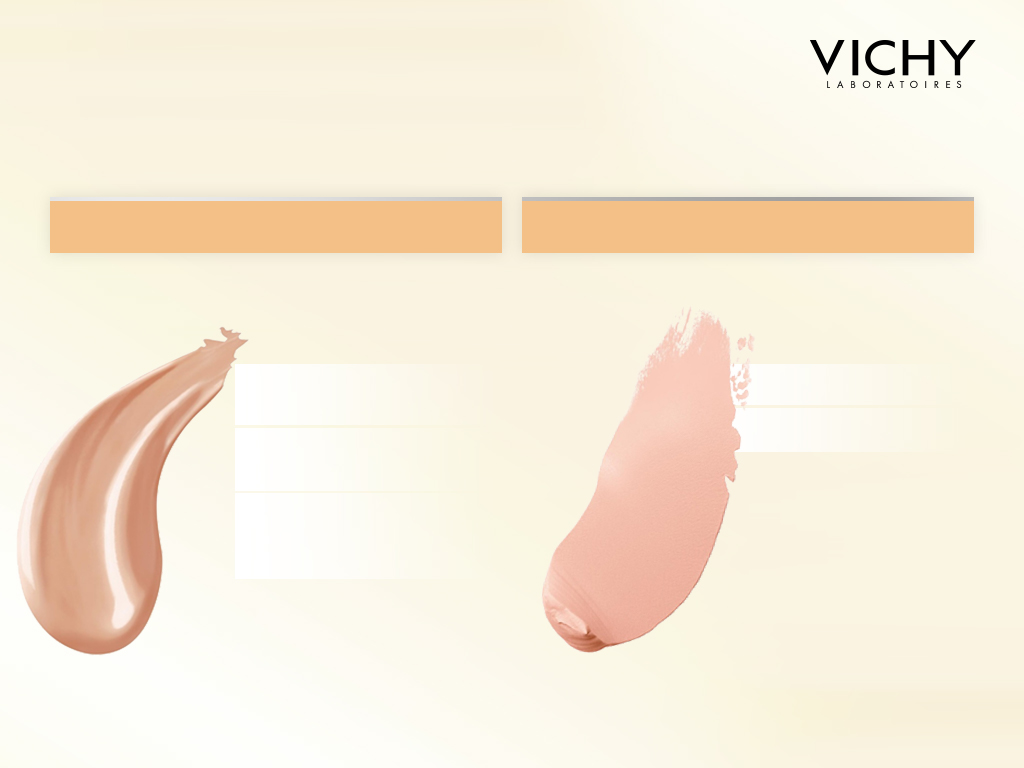
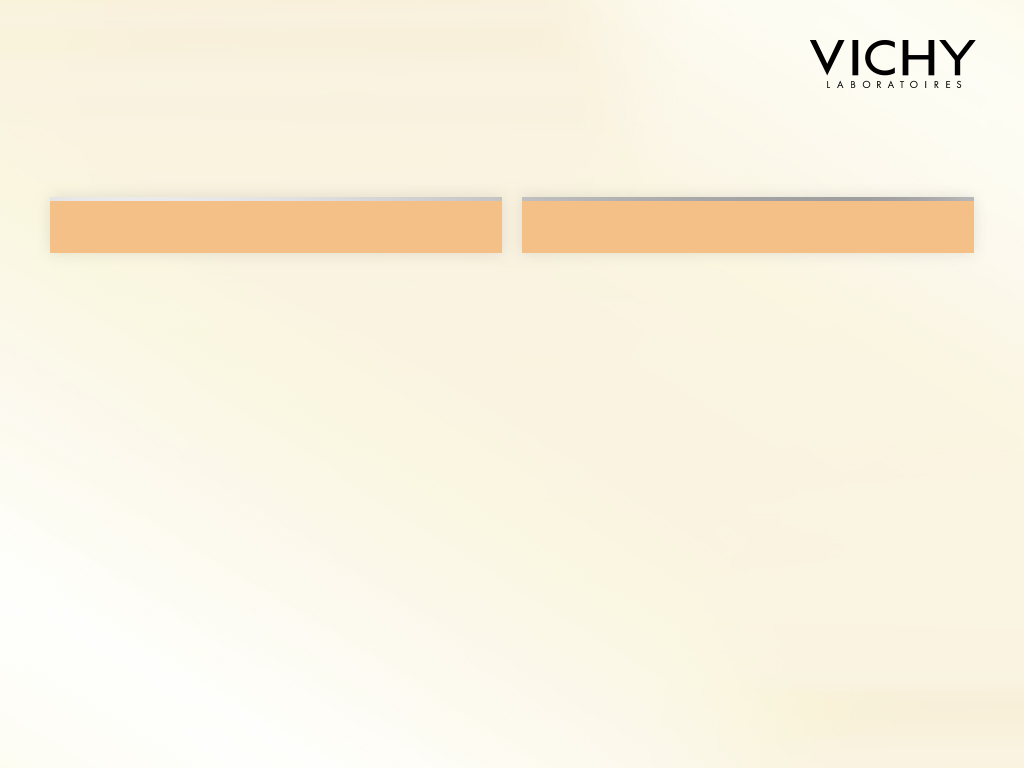
+

Changed region(s): [[0.5312, 0.4062, 0.75, 0.875], [0.0, 0.4062, 0.2812, 0.875]]

diff --git a/css/style.css b/css/style.css
@@ -373,9 +373,29 @@ body {
     left: 604px;
     width: 265px;
   }
+  .sld1 .s1 .good .spot {
+    position: absolute;
+    z-index: 1;
+  }
+  .sld1 .s1 .good-1 .spot {
+    top: 5px;
+    left: -98px;
+    width: 235px;
+    height: 330px;
+    background-image: url('../images/1/spot-f.png');
+  }
+  .sld1 .s1 .good-2 .spot {
+    top: -24px;
+    left: -64px;
+    width: 216px;
+    height: 357px;
+    background-image: url('../images/1/spot-3d.png');
+  }
   .sld1 .s1 .good .img {
     position: absolute;
     bottom: 0;
+    left: 0;
+    z-index: 2;
   }
   .sld1 .s1 .good-1 .img {
     width: 151px;
@@ -388,8 +408,25 @@ body {
     background-image: url('../images/1/bottle-3d.png');
   }
   .sld1 .s1 .good .list {
+    box-sizing: border-box;
     position: absolute;
-    top: 55px;
+    top: 45px;
+    left: 100px;
+    width: 266px;
+    padding-left: 100px;
+    padding-top: 11px;
+    transform: translateX(-100px);
+    opacity: 0;
+    z-index: 0;
+  }
+  .sld1 .s1 .good .list-l {
+    height: 215px;
+    background-image: url('../images/1/list-left-bg.png');
+    right: 0;
+  }
+  .sld1 .s1 .good .list-r {
+    height: 88px;
+    background-image: url('../images/1/list-right-bg.png');
     right: 0;
     transform: translateX(-100px);
     opacity: 0;
@@ -397,6 +434,9 @@ body {
   .sld1 .s1 .good .list li {
     position: relative;
     margin-bottom: 26px;
+  }
+  .sld1 .s1 .good .list li .adv {
+    white-space: nowrap;
   }
   .sld1 .s1 .good .list li .tick {
     position: absolute;
@@ -426,10 +466,10 @@ body {
     position: absolute;
     bottom: 44px;
   }
-  .sld1 .s1 .tones-1 {
+  .sld1 .s1 .tones-l {
     left: 242px;
   }
-  .sld1 .s1 .tones-2 {
+  .sld1 .s1 .tones-r {
     left: 715px;
   }
   .sld1 .s1 .tones li {
@@ -443,15 +483,27 @@ body {
     width: 30px;
     height: 30px;
   }
-  .sld1 .s1 .tones .item1 .tone-img {
+  .sld1 .s1 .tones-l .item1 .tone-img {
     background-image: url('../images/1/tone-1.png');
   }
-  .sld1 .s1 .tones .item2 .tone-img {
+  .sld1 .s1 .tones-l .item2 .tone-img {
     background-image: url('../images/1/tone-2.png');
   }
-  .sld1 .s1 .tones .item3 .tone-img {
+  .sld1 .s1 .tones-l .item3 .tone-img {
     background-image: url('../images/1/tone-3.png');
   }
-  .sld1 .s1 .tones .item4 .tone-img {
+  .sld1 .s1 .tones-l .item4 .tone-img {
     background-image: url('../images/1/tone-4.png');
+  }
+  .sld1 .s1 .tones-r .item1 .tone-img {
+    background-image: url('../images/1/tone-1-r.png');
+  }
+  .sld1 .s1 .tones-r .item2 .tone-img {
+    background-image: url('../images/1/tone-2-r.png');
+  }
+  .sld1 .s1 .tones-r .item3 .tone-img {
+    background-image: url('../images/1/tone-3-r.png');
+  }
+  .sld1 .s1 .tones-r .item4 .tone-img {
+    background-image: url('../images/1/tone-4-r.png');
   }

diff --git a/01/index.html b/01/index.html
@@ -32,8 +32,9 @@
             </div>
 
             <div class="good good-1">
+                <div class="spot spot-f"></div>
                 <div class="img"></div>
-                <ul class="list">
+                <ul class="list list-l">
                     <li class="li1">
                         <div class="tick"></div>
                         <p class="adv light16">Нарушения <br>пигментации</p>
@@ -49,7 +50,7 @@
                 </ul>
                 <p class="type light24">SPF 35</p>
             </div>
-            <ul class="tones tones-1">
+            <ul class="tones tones-l">
                 <li class="item1">
                     <div class="tone-img"></div>
                     <span>05</span>
@@ -69,8 +70,9 @@
             </ul>
 
             <div class="good good-2">
+                <div class="spot spot-3d"></div>
                 <div class="img"></div>
-                <ul class="list">
+                <ul class="list list-r">
                     <li class="li1">
                         <div class="tick"></div>
                         <p class="adv light16">Акне</p>
@@ -82,7 +84,7 @@
                 </ul>
                 <p class="type light24">SPF 25</p>
             </div>
-            <ul class="tones tones-2">
+            <ul class="tones tones-r">
                 <li class="item1">
                     <div class="tone-img"></div>
                     <span>15</span>
